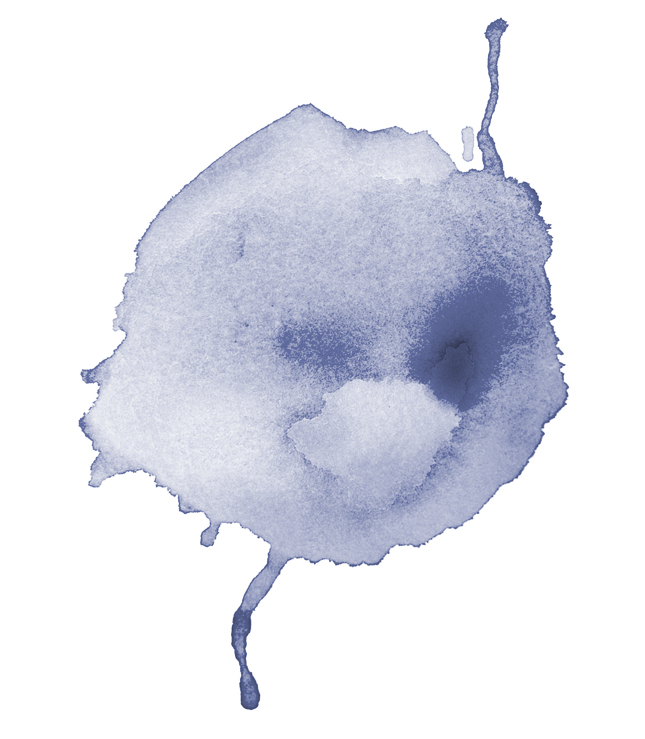
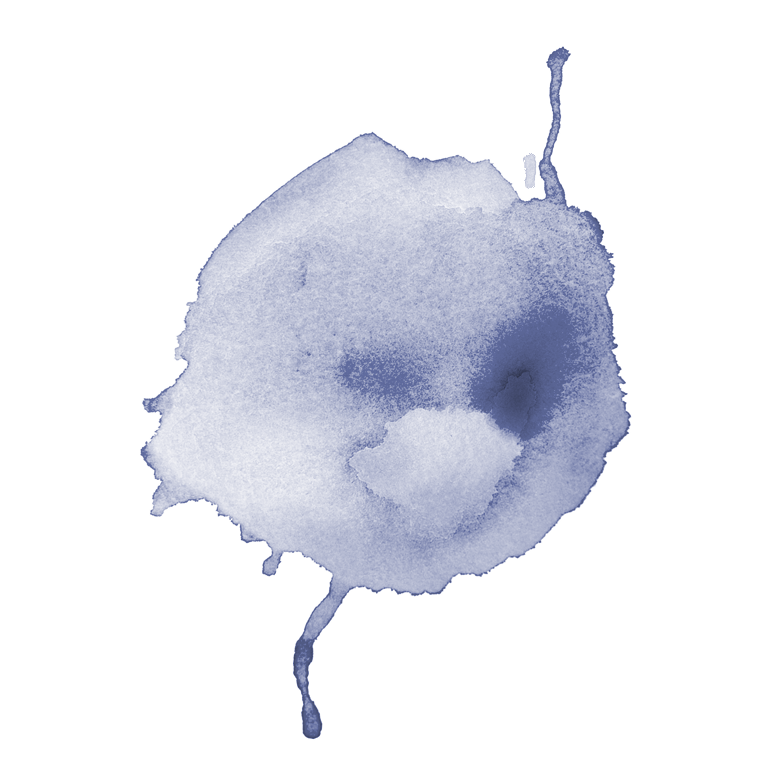
Changed blue splotch and focus splotch images to isolated images to accomodate possible future background, added to-dos to index.html

Changed region(s): [[0.124, 0.0311, 0.8992, 0.9648], [0.4651, 0.6225, 0.5271, 0.6536]]

diff --git a/css/main.css b/css/main.css
@@ -61,8 +61,8 @@ nav ul li a:hover {
 
 /***** HOME *****/
 #hero {
-	background: url(../img/blue-splotch.png) no-repeat 260px;
-	height: 700px;
+	background: url(../img/blue-splotch.png) no-repeat center;
+	height: 720px;
 }
 
 /* name */
@@ -70,7 +70,7 @@ h1 {
 	font-family: 'Homemade Apple', cursive;
 	font-size: 60px;
 	margin: 0 auto;
-	padding: 200px 200px 0 200px;
+	padding-top: 200px;
 	text-align: center;
 	width: 400px;
 }
@@ -80,7 +80,7 @@ h3 {
 	font-family: 'Special Elite', serif;
 	font-size: 30pt;
 	margin: 0 auto;
-	padding: 20px;
+	padding-top: 20px;
 	text-align: center;
 	width: 400px;
 }
@@ -90,7 +90,7 @@ h4 {
 	font-family: 'Special Elite', serif;
 	font-size: 100px;
 	margin: 0 auto;
-	padding-left: 100px;
+	padding-left: 175px;
 	text-align: center;
 	width: 20px;
 	-webkit-transform: rotate(90deg);

diff --git a/index.html b/index.html
@@ -1,3 +1,6 @@
+<!-- TO DO
+	Fix widths of social icons so that full focus splotch shows up -->
+
 <!-- PORTFOLIO MAIN PAGE -->
 
 <!doctype html>
